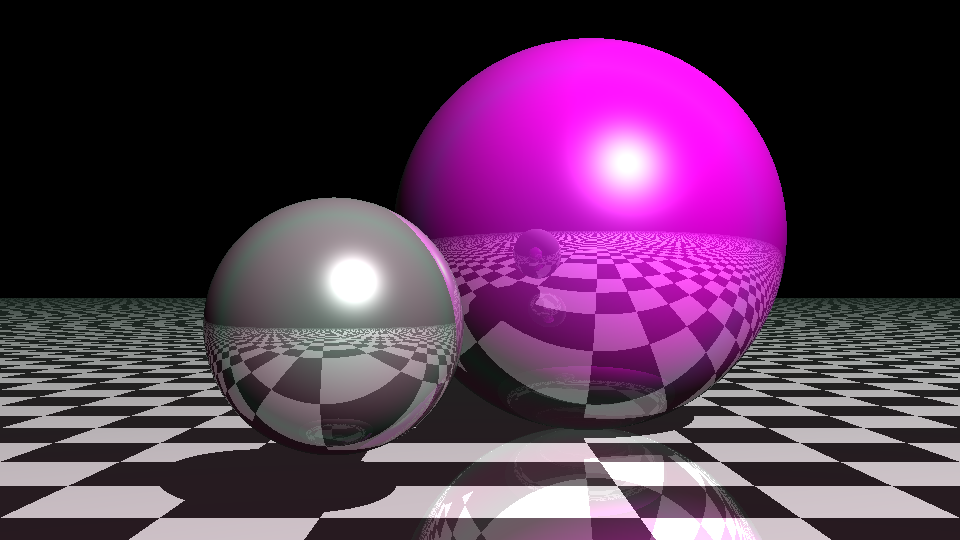
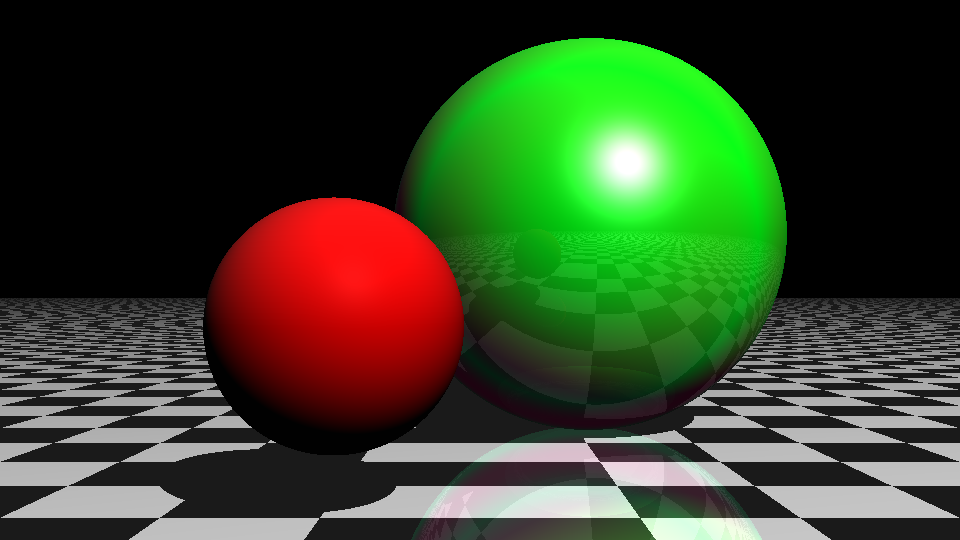
feat: assign one shader by shape (#21)
* feat: one shader by object

* fix: delete mirror effect (duplicated reflection gain)

* feat: Texture node

* feat: test unique shader

diff --git a/ray_tracer/infrastructure.py b/ray_tracer/infrastructure.py
@@ -82,53 +82,55 @@ class NumpyRGBColor(NumpyVector3D):
     pass
 
 
+class Texture:
+    def __init__(self, color: NumpyRGBColor = NumpyRGBColor(0.5, 0.5, 0.5)) -> None:
+        self.color = color
+
+    def get_color(self, intersection_point: NumpyVectorArray3D) -> NumpyRGBColor:
+        """Returns the color of the texture at the intersection point."""
+        return self.color
+
+
 class NumpyShader(Shader):
     def __init__(
         self,
-        shape: Shape,
-        ray_tracer: Renderer,
-        ray_origin: NumpyVector3D,
-        normalized_ray_direction: NumpyVectorArray3D,
-        distance_origin_to_intersection: np.ndarray,
-        scene: Scene3D,
         reflection_gain: float,
         specular_gain: float,
         specular_roughness: float,
         iridescence_gain: float,
         diffuse_gain: float,
+        diffuse_color: Texture,
     ):
-        self.shape = shape
-        self.ray_tracer = ray_tracer
-        self.ray_origin = ray_origin
-        self.normalized_ray_direction = normalized_ray_direction
-        self.distance_origin_to_intersection = distance_origin_to_intersection
-        self.scene = scene
         self.reflection_gain = reflection_gain
         self.specular_gain = specular_gain
         self.specular_roughness = specular_roughness
         self.iridescence_gain = iridescence_gain
         self.diffuse_gain = diffuse_gain
+        self.diffuse_color = diffuse_color
 
-        self.shader = self.create()
-
-    def to_rgb(self) -> NumpyRGBColor:
+    def to_rgb(self, shader: Self) -> NumpyRGBColor:
         return NumpyRGBColor(
-            np.clip(self.shader.x, 0, 1),
-            np.clip(self.shader.y, 0, 1),
-            np.clip(self.shader.z, 0, 1),
+            np.clip(shader.x, 0, 1),
+            np.clip(shader.y, 0, 1),
+            np.clip(shader.z, 0, 1),
         )
 
-    def create(self) -> NumpyVector3D:
+    def create(
+        self,
+        shape: Shape,
+        scene: Scene3D,
+        ray_origin: NumpyVector3D,
+        normalized_ray_direction: NumpyVector3D,
+        distance_origin_to_intersection: float,
+        ray_tracer: Renderer,
+    ) -> NumpyVector3D:
         """This is the main function that will be called to compute the color of the pixel."""
         intersection_point = (
-            self.ray_origin
-            + self.normalized_ray_direction * self.distance_origin_to_intersection
+            ray_origin + normalized_ray_direction * distance_origin_to_intersection
         )
-        normal = (intersection_point - self.shape.position) * (1.0 / self.shape.radius)
-        direction_to_light = (self.scene.lights[0].position - intersection_point).norm()
-        direction_to_ray_origin = (
-            self.scene.camera.position - intersection_point
-        ).norm()
+        normal = (intersection_point - shape.position) * (1.0 / shape.radius)
+        direction_to_light = (scene.lights[0].position - intersection_point).norm()
+        direction_to_ray_origin = (scene.camera.position - intersection_point).norm()
         nudged_intersection_point = (
             intersection_point + normal * 0.0001
         )  # to avoid itself
@@ -136,6 +138,8 @@ class NumpyShader(Shader):
         is_in_light = self._calculate_shadow(
             nudged_intersection_point,
             direction_to_light,
+            scene,
+            shape,
         )
 
         color = self._calculate_ambient_color()
@@ -147,9 +151,12 @@ class NumpyShader(Shader):
         color += self._calculate_reflection(
             nudged_intersection_point,
             normal,
+            normalized_ray_direction,
+            scene,
+            ray_tracer,
         )
 
-        color += self._calculate_dome_light(normal)
+        color += self._calculate_dome_light(normal, scene)
 
         color += (
             self._calculate_phong_specular(
@@ -166,6 +173,8 @@ class NumpyShader(Shader):
         self,
         nudged_intersection_point: NumpyVector3D,
         direction_to_light: NumpyVector3D,
+        scene: Scene3D,
+        shape: Shape,
     ) -> bool:
         """Calculates whether the intersection point is in light or in shadow.
         It does this by checking if the intersection point is closer to the light source
@@ -179,10 +188,10 @@ class NumpyShader(Shader):
         """
         light_distances = [
             shape.intersect(nudged_intersection_point, direction_to_light)
-            for shape in self.scene.shapes
+            for shape in scene.shapes
         ]
         light_nearest = reduce(np.minimum, light_distances)
-        return light_distances[self.scene.shapes.index(self.shape)] == light_nearest
+        return light_distances[scene.shapes.index(shape)] == light_nearest
 
     def _calculate_diffuse(
         self,
@@ -190,10 +199,11 @@ class NumpyShader(Shader):
         normal: NumpyVector3D,
         direction_to_light: NumpyVector3D,
         is_in_light: bool,
-    ):
+    ) -> NumpyRGBColor:
+        """Calculates the diffuse color of the shape at the intersection point."""
         diffuse_light_intensity = np.maximum(normal.dot(direction_to_light), 0)
         return (
-            self.shape.diffusecolor(intersection_point)
+            self.diffuse_color.get_color(intersection_point)
             * diffuse_light_intensity
             * is_in_light
             * self.diffuse_gain
@@ -203,18 +213,19 @@ class NumpyShader(Shader):
         self,
         nudged_intersection_point: NumpyVector3D,
         normal: NumpyVector3D,
+        normalized_ray_direction: NumpyVector3D,
+        scene: Scene3D,
+        ray_tracer: Renderer,
     ) -> NumpyRGBColor:
         ray_direction = (
-            self.normalized_ray_direction
-            - normal * 2 * self.normalized_ray_direction.dot(normal)
+            normalized_ray_direction - normal * 2 * normalized_ray_direction.dot(normal)
         ).norm()
         return (
-            self.ray_tracer.raytrace_scene(
+            ray_tracer.raytrace_scene(
                 nudged_intersection_point,
                 ray_direction,
-                self.scene,
+                scene,
             )
-            * self.shape.mirror
             * self.reflection_gain
         )
 
@@ -261,12 +272,14 @@ class NumpyShader(Shader):
 
         return iridescence_color * self.iridescence_gain
 
-    def _calculate_dome_light(self, normal: NumpyVector3D) -> NumpyRGBColor:
+    def _calculate_dome_light(
+        self, normal: NumpyVector3D, scene: Scene3D
+    ) -> NumpyRGBColor:
         light_direction = NumpyVector3D(0, 1, 0)  # from sky
         dome_intensity = 0.0
         dome_color = NumpyRGBColor(1.0, 1.0, 1.0)
 
-        for light in self.scene.lights:
+        for light in scene.lights:
             if isinstance(light, DomeLight):
                 dome_color = light.color
                 dome_intensity += light.intensity * np.maximum(
@@ -281,14 +294,12 @@ class NumpySphere(Shape):
         self,
         center: NumpyVector3D,
         radius: float,
-        diffuse: NumpyRGBColor,
-        mirror: float = 0.5,
+        shader: Shader,
     ) -> None:
         self.center = center
         self.position = center
         self.radius = radius
-        self.diffuse = diffuse
-        self.mirror = mirror
+        self.shader = shader
 
     def intersect(
         self, ray_origin: NumpyVector3D, normalized_ray_direction: NumpyVector3D
@@ -338,9 +349,8 @@ class NumpyTexturedSphere(NumpySphere):
         center: NumpyVector3D,
         radius: float,
         texture_path: Path,
-        mirror: float = 0.5,
     ) -> None:
-        super().__init__(center, radius, NumpyRGBColor(1, 1, 1), mirror)
+        super().__init__(center, radius, NumpyRGBColor(1, 1, 1))
         image = Image.open(texture_path).convert("RGB")
         self.texture = np.asarray(image) / 255.0
 
@@ -377,30 +387,22 @@ class NumpyTexturedSphere(NumpySphere):
         return NumpyRGBColor(r, g, b)
 
 
-class CheckeredSphere(NumpySphere):
-    def diffusecolor(self, intersection_point: NumpyVectorArray3D) -> NumpyRGBColor:
+class TextureChecker(Texture):
+    def __init__(
+        self,
+        color: NumpyRGBColor = NumpyRGBColor(1, 1, 1),
+    ) -> None:
+        pass
+
+    def get_color(self, intersection_point: NumpyVectorArray3D) -> NumpyRGBColor:
         checker = ((intersection_point.x * 2).astype(int) % 2) == (
             (intersection_point.z * 2).astype(int) % 2
         )
 
-        return self.diffuse * checker
+        return NumpyRGBColor(1, 1, 1) * checker
 
 
 class NumpyRenderer(Renderer):
-    def __init__(
-        self,
-        reflection_gain: float = 0.0,
-        specular_gain: float = 1.0,
-        specular_roughness: float = 0.5,
-        iridescence_gain: float = 0.0,
-        diffuse_gain: float = 1.0,
-    ) -> None:
-        self.reflection_gain = reflection_gain
-        self.specular_gain = specular_gain
-        self.specular_roughness = specular_roughness
-        self.iridescence_gain = iridescence_gain
-        self.diffuse_gain = diffuse_gain
-
     def raytrace_scene(
         self,
         ray_origin: NumpyVector3D,
@@ -425,19 +427,14 @@ class NumpyRenderer(Renderer):
                     normalized_ray_direction.extract(hit)
                 )
 
-                computed_color = NumpyShader(
+                computed_color = shape.shader.create(
                     shape,
-                    self,
+                    scene,
                     extracted_ray_origin,
                     extracted_normalized_ray_direction,
                     extracted_distance_to_intersection,
-                    scene,
-                    self.reflection_gain,
-                    self.specular_gain,
-                    self.specular_roughness,
-                    self.iridescence_gain,
-                    self.diffuse_gain,
-                ).to_rgb()
+                    self,
+                )
 
                 color += computed_color.place(hit)
 

diff --git a/main.py b/main.py
@@ -4,41 +4,34 @@ from pathlib import Path
 from ray_tracer.application import render_image_pipeline
 from ray_tracer.domain import Camera, DomeLight, PointLight, Scene3D
 from ray_tracer.infrastructure import (
-    CheckeredSphere,
     NumpyRenderer,
     NumpyRGBColor,
+    NumpyShader,
     NumpySphere,
     NumpyVector3D,
+    Texture,
+    TextureChecker,
 )
 
 if __name__ == "__main__":
-    renderer = NumpyRenderer(
-        reflection_gain=0.8,
-        specular_gain=1.0,
-        specular_roughness=0.5,
-        iridescence_gain=0.05,
-        diffuse_gain=1.0,
-    )
+    renderer = NumpyRenderer()
 
     scene = Scene3D(
         [
             NumpySphere(
                 NumpyVector3D(0.55, 0.5, 3),
                 1.0,
-                NumpyRGBColor(1, 0, 1),
+                NumpyShader(0.1, 1.0, 0.5, 0.1, 1.0, Texture(NumpyRGBColor(0, 1, 0))),
             ),
             NumpySphere(
-                NumpyVector3D(-0.45, 0.1, 1), 0.4, NumpyRGBColor(0.5, 0.5, 0.5)
+                NumpyVector3D(-0.45, 0.1, 1),
+                0.4,
+                NumpyShader(0.0, 0.05, 0.5, 0.0, 1.0, Texture(NumpyRGBColor(1, 0, 0))),
             ),
-            CheckeredSphere(
+            NumpySphere(
                 NumpyVector3D(0, -99999.5, 0),
                 99999,
-                NumpyRGBColor(
-                    1,
-                    1,
-                    1,
-                ),
-                1.0,
+                NumpyShader(1.0, 0.0, 0.0, 0.0, 1.0, TextureChecker()),
             ),
         ],
         [
